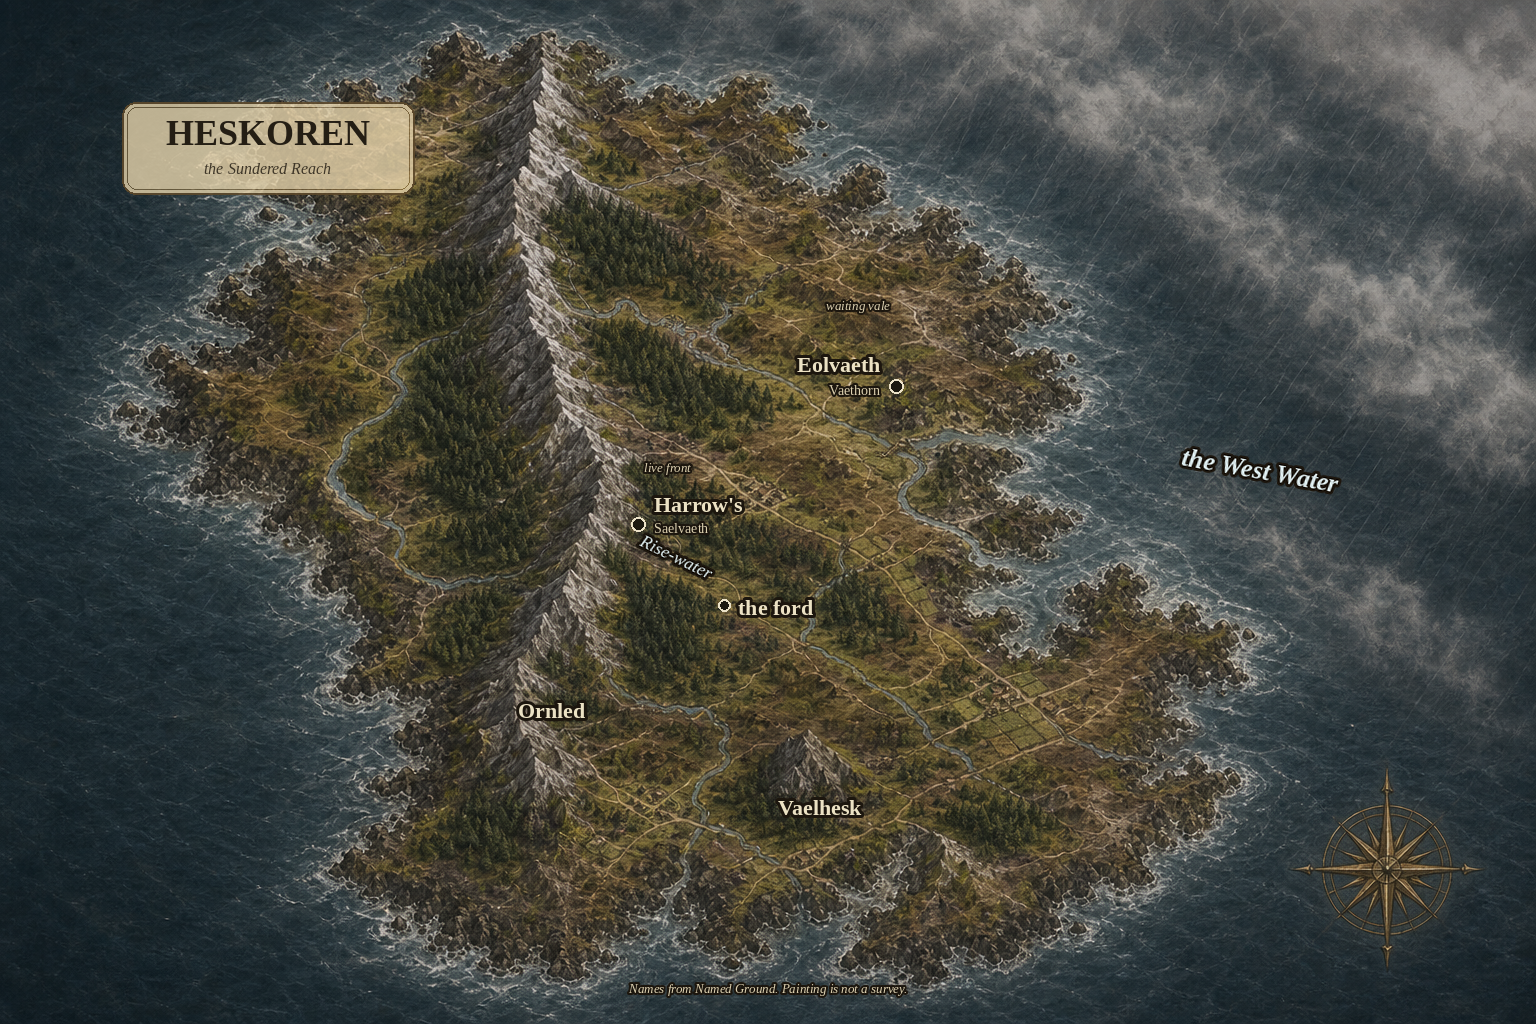
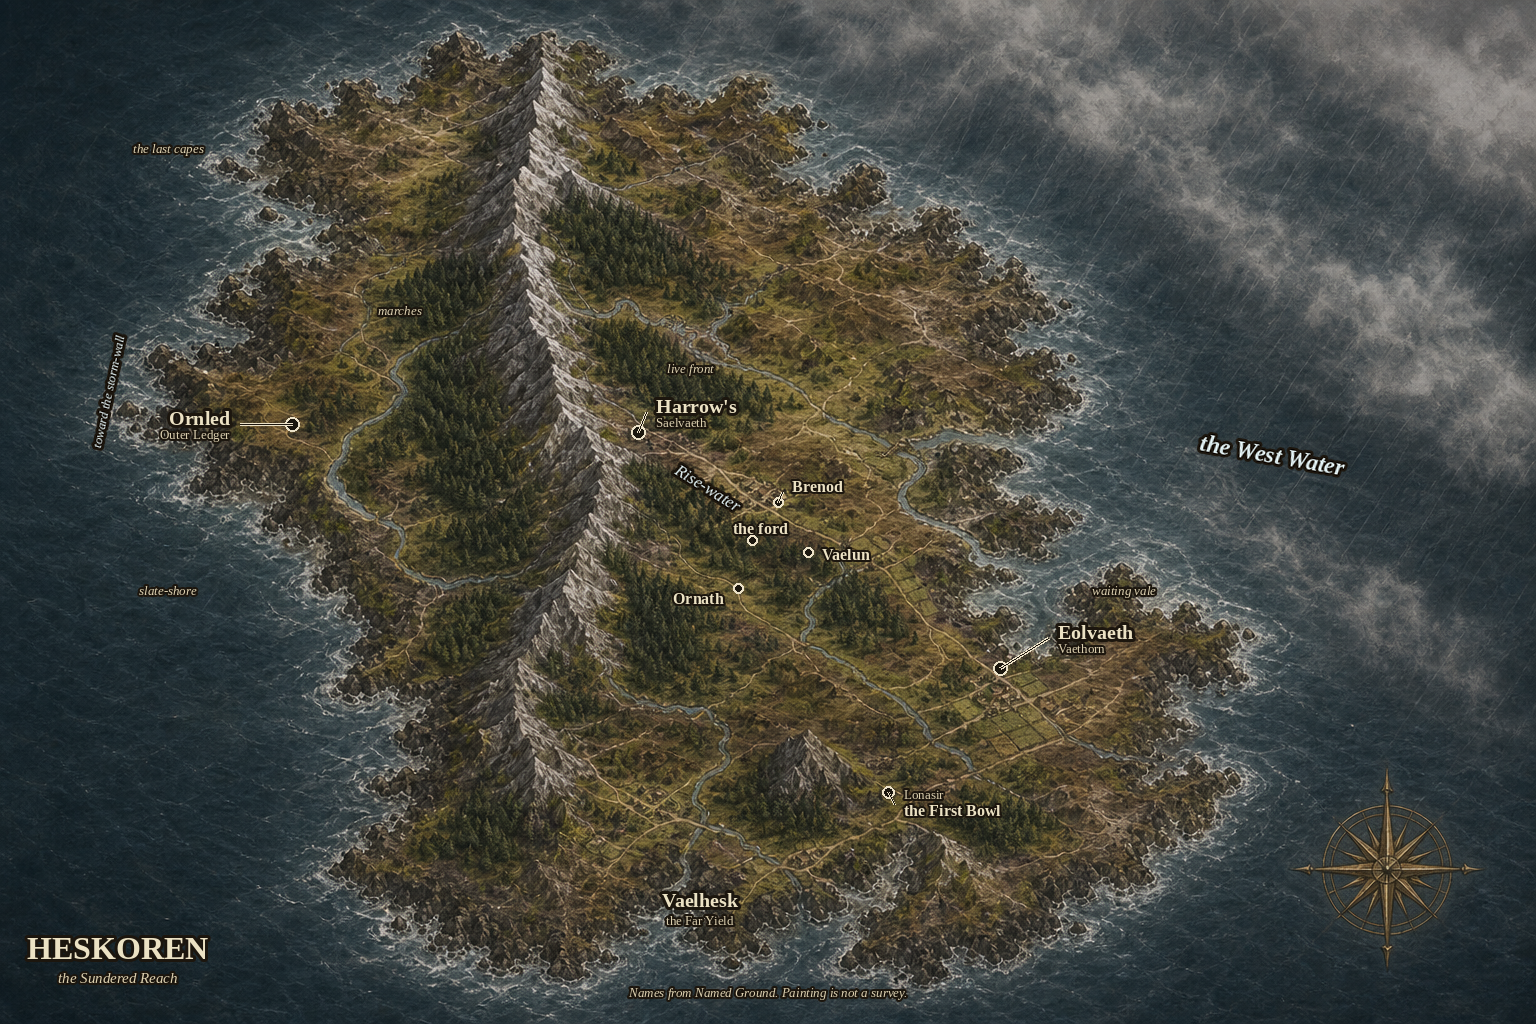
Sit Heskoren labels on the painted hearths
Move the continent name into the south-west sea. Name the west face and
the playable squares visible on the painting; leave extra generated roofs unnamed.

diff --git a/14 - Assets/Maps/label_heskoren_atlas.py b/14 - Assets/Maps/label_heskoren_atlas.py
@@ -1,9 +1,9 @@
 #!/usr/bin/env python3
 """Overlay Named Ground labels on the selected Heskoren atlas painting.
 
-The painting stays the geographic texture. Names and relative placement come
-from Named Ground / the Known Map schematic — not from incidental generated
-roofs, fields, or tributaries. Rebuild:
+The painting stays the geographic texture. Names come from Named Ground and
+the playable squares — not from incidental generated roofs. Dots sit on the
+painted hearths those names already belong to. Rebuild:
 
     python3 "14 - Assets/Maps/label_heskoren_atlas.py"
 """
@@ -19,37 +19,22 @@ ROOT = Path(__file__).resolve().parent
 SOURCE = ROOT / "Heskoren-Atlas.png"
 OUTPUT = ROOT / "Heskoren-Atlas-Labeled.png"
 
-# Liberation Serif ≈ the Georgia hand on the Known Map SVG.
 FONT_DIR = Path("/usr/share/fonts/truetype/liberation")
 SERIF = FONT_DIR / "LiberationSerif-Regular.ttf"
 SERIF_BOLD = FONT_DIR / "LiberationSerif-Bold.ttf"
 SERIF_ITALIC = FONT_DIR / "LiberationSerif-Italic.ttf"
 SERIF_BOLD_ITALIC = FONT_DIR / "LiberationSerif-BoldItalic.ttf"
 
-INK = (36, 30, 20)
-INK_MUTED = (62, 54, 40)
-# Cream type, dark stroke: the painting is too dark for iron-gall fill.
 TYPE = (236, 226, 196)
 TYPE_MUTED = (220, 208, 176)
 TYPE_WATER = (214, 228, 230)
 STROKE = (28, 22, 14)
-PARCHMENT = (228, 210, 170, 205)
-PARCHMENT_EDGE = (92, 72, 42, 230)
 DOT = (28, 24, 16)
 DOT_RING = (236, 226, 200)
-
-# Painted land, inside the bronze frame. West left, north up.
-# Tuned against the Prototype 3 Heskoren master (1536×1024).
-LAND = (190, 95, 1145, 905)
 
 
 def font(path: Path, size: int) -> ImageFont.FreeTypeFont:
     return ImageFont.truetype(str(path), size)
-
-
-def land_xy(fx: float, fy: float) -> tuple[int, int]:
-    x0, y0, x1, y1 = LAND
-    return int(x0 + fx * (x1 - x0)), int(y0 + fy * (y1 - y0))
 
 
 def halo_text(
@@ -107,20 +92,49 @@ def paste_rotated(
     )
 
 
-def cartouche(canvas: Image.Image, cx: int, cy: int, width: int, height: int) -> None:
-    overlay = Image.new("RGBA", canvas.size, (0, 0, 0, 0))
-    draw = ImageDraw.Draw(overlay)
-    box = [cx - width // 2, cy - height // 2, cx + width // 2, cy + height // 2]
-    draw.rounded_rectangle(box, radius=14, fill=PARCHMENT, outline=PARCHMENT_EDGE, width=2)
-    inner = [box[0] + 5, box[1] + 5, box[2] - 5, box[3] - 5]
-    draw.rounded_rectangle(inner, radius=10, outline=(140, 112, 64, 160), width=1)
-    canvas.alpha_composite(overlay)
-
-
 def settlement_dot(draw: ImageDraw.ImageDraw, xy: tuple[int, int], radius: int = 5) -> None:
     x, y = xy
     draw.ellipse((x - radius - 2, y - radius - 2, x + radius + 2, y + radius + 2), fill=DOT_RING)
     draw.ellipse((x - radius, y - radius, x + radius, y + radius), fill=DOT)
+
+
+def leader(draw: ImageDraw.ImageDraw, start: tuple[int, int], end: tuple[int, int]) -> None:
+    draw.line((start, end), fill=DOT_RING, width=3)
+    draw.line((start, end), fill=STROKE, width=1)
+
+
+def place(
+    draw: ImageDraw.ImageDraw,
+    name: str,
+    xy: tuple[int, int],
+    typeface: ImageFont.FreeTypeFont,
+    *,
+    caption: str | None = None,
+    caption_font: ImageFont.FreeTypeFont | None = None,
+    off: tuple[int, int] = (16, -18),
+    anchor: str = "lm",
+    radius: int = 5,
+    stroke: int = 3,
+) -> None:
+    """Dot on the painted hearth; type offset so it does not sit on the roofs."""
+    settlement_dot(draw, xy, radius)
+    lx, ly = xy[0] + off[0], xy[1] + off[1]
+    if abs(off[0]) >= 16 or abs(off[1]) >= 16:
+        tip_x = lx + (-10 if off[0] > 0 else 10 if off[0] < 0 else 0)
+        tip_y = ly + (6 if off[1] < 0 else -6 if off[1] > 0 else 0)
+        leader(draw, xy, (tip_x, tip_y))
+    halo_text(draw, (lx, ly), name, typeface, TYPE, anchor=anchor, stroke=stroke)
+    if caption and caption_font:
+        cap_off = 16 if off[1] <= 0 else -16
+        halo_text(
+            draw,
+            (lx, ly + cap_off),
+            caption,
+            caption_font,
+            TYPE_MUTED,
+            anchor=anchor,
+            stroke=2,
+        )
 
 
 def build() -> Image.Image:
@@ -130,54 +144,92 @@ def build() -> Image.Image:
 
     canvas = base.copy()
 
-    title = font(SERIF_BOLD, 36)
-    subtitle = font(SERIF_ITALIC, 16)
-    place = font(SERIF_BOLD, 22)
-    caption = font(SERIF, 14)
-    water = font(SERIF_BOLD_ITALIC, 26)
-    river = font(SERIF_ITALIC, 18)
+    title = font(SERIF_BOLD, 32)
+    subtitle = font(SERIF_ITALIC, 15)
+    place_f = font(SERIF_BOLD, 20)
+    hamlet_f = font(SERIF_BOLD, 16)
+    caption_f = font(SERIF, 13)
+    water = font(SERIF_BOLD_ITALIC, 24)
+    river = font(SERIF_ITALIC, 17)
     note = font(SERIF_ITALIC, 13)
 
-    # Continent name sits in the north-west sea so the highland spine stays visible.
-    cartouche(canvas, 268, 148, 292, 92)
+    # Continent name as sea-type in the far south-west water. No cartouche on land.
     ink = ImageDraw.Draw(canvas)
-    halo_text(ink, (268, 132), "HESKOREN", title, INK, stroke=0)
-    halo_text(ink, (268, 168), "the Sundered Reach", subtitle, INK_MUTED, stroke=0)
+    halo_text(ink, (118, 948), "HESKOREN", title, TYPE, stroke=3)
+    halo_text(ink, (118, 978), "the Sundered Reach", subtitle, TYPE_MUTED, stroke=2)
 
-    paste_rotated(canvas, "the West Water", water, TYPE_WATER, (1260, 470), angle=-10)
-    ink = ImageDraw.Draw(canvas)
-
-    # Relative seats follow the Known Map schematic, mapped onto this land box.
-    # Eolvaeth: vale behind the east-facing coast.
-    eol = land_xy(0.74, 0.36)
-    settlement_dot(ink, eol)
-    halo_text(ink, (eol[0] - 16, eol[1] - 22), "Eolvaeth", place, TYPE, anchor="rm")
-    halo_text(ink, (eol[0] - 16, eol[1] + 4), "Vaethorn", caption, TYPE_MUTED, anchor="rm", stroke=2)
-
-    # Harrow's: inland live-front rise, east of the highland spine, not a capital.
-    harrow = land_xy(0.47, 0.53)
-    settlement_dot(ink, harrow)
-    halo_text(ink, (harrow[0] + 16, harrow[1] - 20), "Harrow's", place, TYPE, anchor="lm")
-    halo_text(ink, (harrow[0] + 16, harrow[1] + 4), "Saelvaeth", caption, TYPE_MUTED, anchor="lm", stroke=2)
-
-    # Ford: hours down the Rise-water. Close on the page because the walk is short.
-    ford = land_xy(0.56, 0.63)
-    settlement_dot(ink, ford, radius=4)
-    halo_text(ink, (ford[0] + 14, ford[1] + 2), "the ford", place, TYPE, anchor="lm")
-
-    rise = land_xy(0.51, 0.57)
-    paste_rotated(canvas, "Rise-water", river, TYPE_WATER, rise, angle=-26)
+    paste_rotated(canvas, "the West Water", water, TYPE_WATER, (1272, 455), angle=-10)
+    paste_rotated(canvas, "toward the storm-wall", note, TYPE_WATER, (108, 390), angle=78)
     ink = ImageDraw.Draw(canvas)
 
-    # Power stubs: named country, seats still unnamed. No borders.
-    halo_text(ink, land_xy(0.38, 0.76), "Ornled", place, TYPE)
-    halo_text(ink, land_xy(0.66, 0.88), "Vaelhesk", place, TYPE)
+    # West face — last capes, slate-shore, Ornled pocket, empty marches.
+    halo_text(ink, (168, 148), "the last capes", note, TYPE_MUTED, stroke=2)
+    halo_text(ink, (168, 590), "slate-shore", note, TYPE_MUTED, stroke=2)
+    halo_text(ink, (400, 310), "marches", note, TYPE_MUTED, stroke=2)
+    place(
+        ink,
+        "Ornled",
+        (292, 424),
+        place_f,
+        caption="Outer Ledger",
+        caption_font=caption_f,
+        off=(-62, -6),
+        anchor="rm",
+    )
 
-    halo_text(ink, land_xy(0.70, 0.26), "waiting vale", note, TYPE_MUTED, anchor="mm", stroke=2)
-    halo_text(ink, land_xy(0.50, 0.46), "live front", note, TYPE_MUTED, anchor="mm", stroke=2)
+    # Live-front rise east of the highland spine (painted grove-town).
+    place(
+        ink,
+        "Harrow's",
+        (638, 432),
+        place_f,
+        caption="Saelvaeth",
+        caption_font=caption_f,
+        off=(18, -26),
+        anchor="lm",
+    )
+    paste_rotated(canvas, "Rise-water", river, TYPE_WATER, (708, 488), angle=-32)
+    ink = ImageDraw.Draw(canvas)
+    halo_text(ink, (760, 528), "the ford", hamlet_f, TYPE, anchor="mm", stroke=2)
+    settlement_dot(ink, (752, 540), radius=3)
+
+    # Three hearths past the ford — Seat still does not use these names.
+    place(ink, "Brenod", (778, 502), hamlet_f, off=(14, -16), anchor="lm", radius=3, stroke=2)
+    place(ink, "Vaelun", (808, 552), hamlet_f, off=(14, 2), anchor="lm", radius=3, stroke=2)
+    place(ink, "Ornath", (738, 588), hamlet_f, off=(-14, 10), anchor="rm", radius=3, stroke=2)
+
+    # Largest painted town: gardens and camp-streets on the east vale.
+    place(
+        ink,
+        "Eolvaeth",
+        (1000, 668),
+        place_f,
+        caption="Vaethorn",
+        caption_font=caption_f,
+        off=(58, -36),
+        anchor="lm",
+    )
+    halo_text(ink, (1124, 590), "waiting vale", note, TYPE_MUTED, stroke=2)
+    halo_text(ink, (690, 368), "live front", note, TYPE_MUTED, stroke=2)
+
+    # Guest-grove in the Yield, away from Harrow's.
+    place(
+        ink,
+        "the First Bowl",
+        (888, 792),
+        hamlet_f,
+        caption="Lonasir",
+        caption_font=caption_f,
+        off=(16, 18),
+        anchor="lm",
+        radius=4,
+        stroke=2,
+    )
+    halo_text(ink, (700, 900), "Vaelhesk", place_f, TYPE, stroke=3)
+    halo_text(ink, (700, 920), "the Far Yield", caption_f, TYPE_MUTED, stroke=2)
 
     footer = "Names from Named Ground. Painting is not a survey."
-    halo_text(ink, (768, 988), footer, note, TYPE_MUTED, stroke=2)
+    halo_text(ink, (768, 992), footer, note, TYPE_MUTED, stroke=2)
 
     return canvas.convert("RGB")
 

diff --git a/00 - Core/Concept/Build Plan.md b/00 - Core/Concept/Build Plan.md
@@ -18,7 +18,7 @@ updated: 2026-09-01
 
 ## Active next
 
-**Heskoren label trial (2026-09-01).** Asked the image model to write on the C3 painting anyway. Spellings partly landed; it redrew the continent. A Pillow overlay on the selected master keeps the painting and takes names from [[Named Ground]] (`Heskoren-Atlas-Labeled.png`). Unlabeled Prototype 3 sheets stay the selected handouts. World book untouched.
+**Heskoren label trial (2026-09-01).** Asked the image model to write on the C3 painting anyway. Spellings partly landed; it redrew the continent. A Pillow overlay on the selected master keeps the painting and takes names from [[Named Ground]] (`Heskoren-Atlas-Labeled.png`). Dots sit on painted hearths; the continent name sits in the south-west sea. West face now has Ornled, last capes, marches, slate-shore. Extra generated roof-clusters stay unnamed. Unlabeled Prototype 3 sheets stay the selected handouts. World book untouched.
 
 **Atlas follow-up complete (2026-09-01).** Prototype 3 remains the selected master set. Regional sheets that share a parent are distinct generated paintings, not continent crops: Sacred Core versus Rain-Wall (Maiethorn); Chart-run versus West Water (Strandoren). Styled to the rest of the atlas. [[The Atlas Sheets]] and [[Map Generation Tooling]] record the contract. Incidental generated detail is non-canon. World book untouched.
 

diff --git a/14 - Assets/Maps/The Atlas Sheets.md b/14 - Assets/Maps/The Atlas Sheets.md
@@ -106,7 +106,7 @@ Tried putting names on the painting even though the generate prompts say **NO TE
 | File | What happened |
 |---|---|
 | `label-trials/Heskoren-Atlas-labeled-gen.png` | Image model, reference-locked. Some spellings landed. It **redrew** the continent (snow, vertical title, stacked names). Not a copy of the master. |
-| `Heskoren-Atlas-Labeled.png` | Pillow overlay on the selected Prototype 3 master. Names from [[Named Ground]] / [[The Known Map]] only. Relative seats mapped onto the painted land box. Incidental roofs and field-grids left unnamed. |
+| `Heskoren-Atlas-Labeled.png` | Pillow overlay on the selected Prototype 3 master. Dots sit on painted hearths; type is offset into water or clear ground so the title and names do not sit on the roofs. Named: Eolvaeth, Harrow's, Brenod / Vaelun / Ornath, the First Bowl, Ornled; west face also has the last capes, marches, slate-shore, toward the storm-wall. Extra generated roof-clusters stay unnamed. |
 
 The unlabeled C3 sheet stays the selected handout. The overlay is a table aid, not a second gazetteer. Do not promote generated fields or extra peaks into canon because a label sat near them. Script: `14 - Assets/Maps/label_heskoren_atlas.py`.
 

diff --git a/14 - Assets/Maps/Map Generation Tooling.md b/14 - Assets/Maps/Map Generation Tooling.md
@@ -474,7 +474,7 @@ Suggested first labels, not a new gazetteer:
 | W | Kumbaan · storm-wall · Heskoren · West Water · Strandoren · Old Crossing · Maiethorn · Rain-Wall |
 | C1 | Thaeloren · Inner Close · Orenbren · Maiethlir · Core-thaw · Noon Pass · Shelf-gate · Rain-Shadow · Hinge Shore |
 | C2 | Orentel · Chart-run · Trenledd · Netstrand |
-| C3 | Eolvaeth · Harrow's · the ford · Rise-water |
+| C3 | Eolvaeth · Harrow's · Brenod / Vaelun / Ornath · the First Bowl · Ornled · last capes · slate-shore |
 | C4 | nothing that implies a graft |
 | R1 | Hinge Shore · Orentel · Hush-rate as a rate, not a border |
 | R2 | Thaeloren · Inner Close · Third Hearth · Maiethlir |
